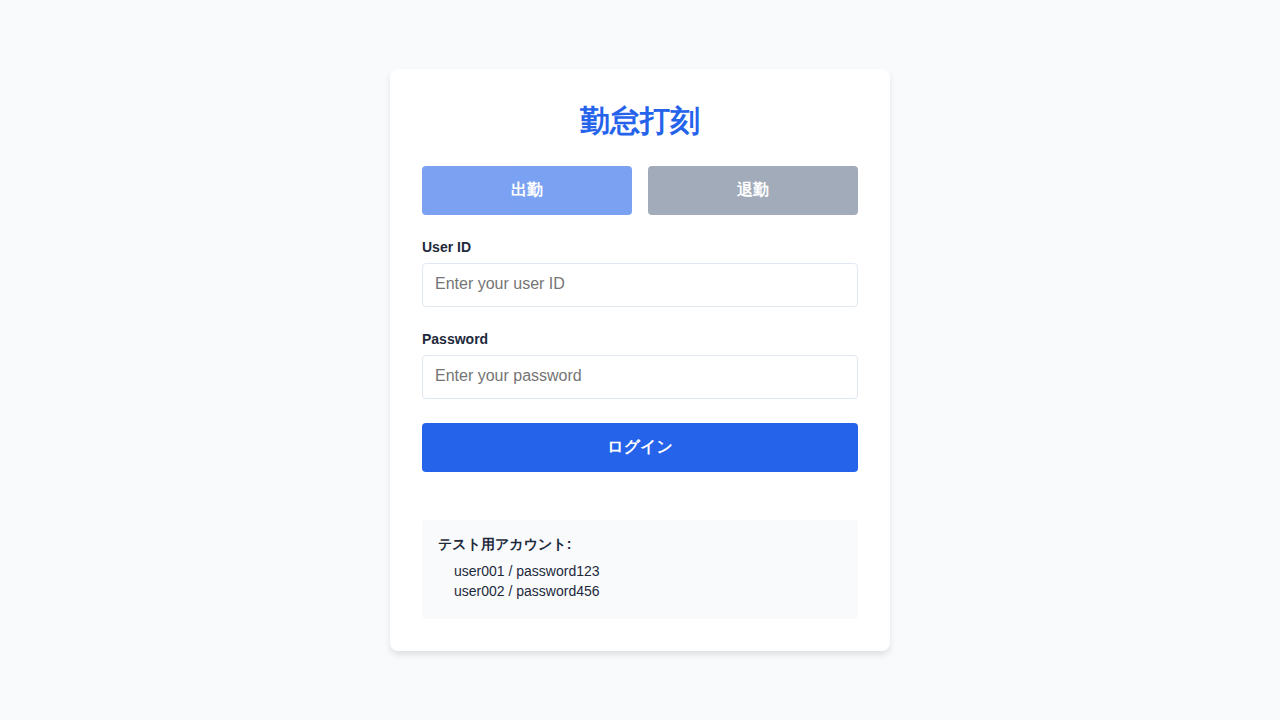
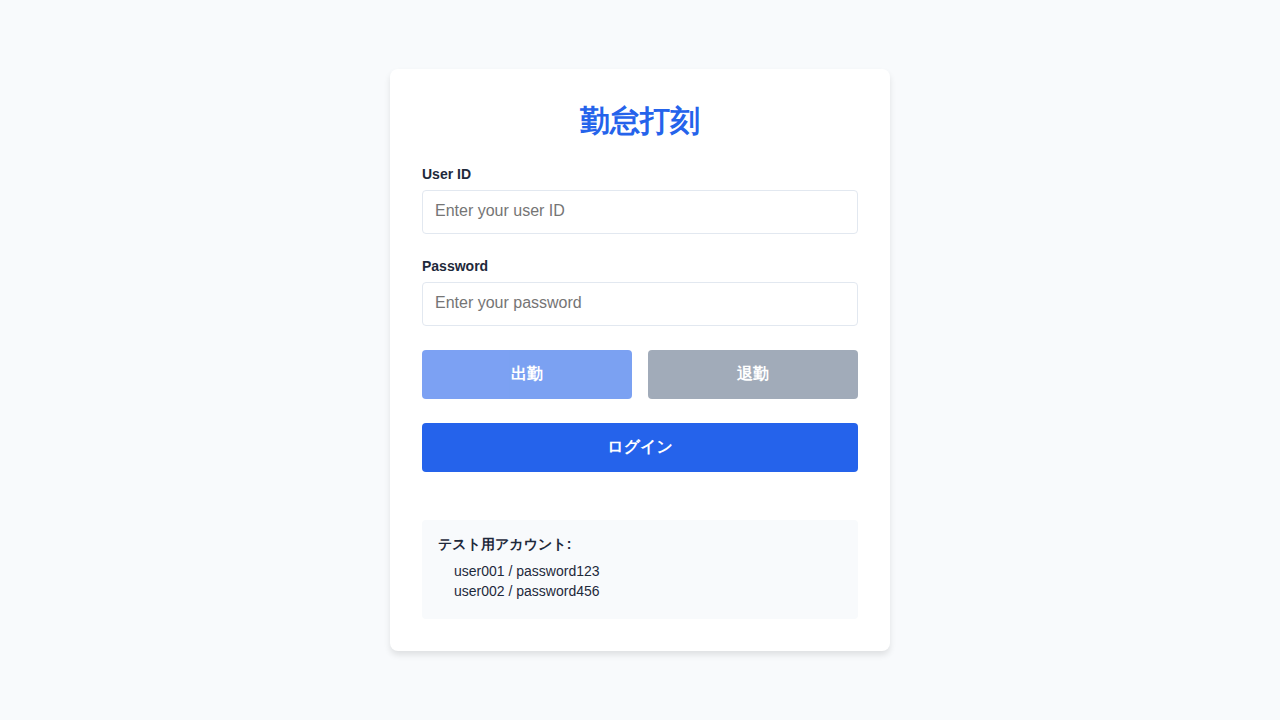
ワークフロー改善とUIレイアウト変更: presetupステップ削除、出勤・退勤ボタン位置変更

Changed region(s): [[0.3125, 0.4583, 0.6875, 0.5806], [0.3125, 0.2139, 0.6875, 0.3056], [0.3125, 0.3361, 0.4688, 0.4278]]

diff --git a/apps/frontend/src/ClockInOutPage/ClockInOutPage.tsx b/apps/frontend/src/ClockInOutPage/ClockInOutPage.tsx
@@ -96,25 +96,7 @@ export function ClockInOutPage() {
             <div className={`message ${message.type}`}>{message.text}</div>
           )}
 
-          {/* 出勤・退勤ボタンは常に表示 */}
-          <div className="button-group">
-            <button
-              className="btn btn-primary"
-              onClick={() => handleClockInOut('clock-in')}
-              disabled={loading || !isAuthenticated}
-            >
-              出勤
-            </button>
-            <button
-              className="btn btn-secondary"
-              onClick={() => handleClockInOut('clock-out')}
-              disabled={loading || !isAuthenticated}
-            >
-              退勤
-            </button>
-          </div>
-
-          {/* 未ログイン時：ログインフォームとログインボタンを表示 */}
+          {/* 未ログイン時：ログインフォーム、出勤・退勤ボタン、ログインボタンを表示 */}
           {!isAuthenticated && (
             <>
               <div className="form-group">
@@ -141,6 +123,24 @@ export function ClockInOutPage() {
                 />
               </div>
 
+              {/* 出勤・退勤ボタン（未ログイン時は無効） */}
+              <div className="button-group">
+                <button
+                  className="btn btn-primary"
+                  onClick={() => handleClockInOut('clock-in')}
+                  disabled={loading || !isAuthenticated}
+                >
+                  出勤
+                </button>
+                <button
+                  className="btn btn-secondary"
+                  onClick={() => handleClockInOut('clock-out')}
+                  disabled={loading || !isAuthenticated}
+                >
+                  退勤
+                </button>
+              </div>
+
               <button
                 className="btn btn-login"
                 onClick={handleLogin}
@@ -162,15 +162,34 @@ export function ClockInOutPage() {
             </>
           )}
 
-          {/* ログイン済み時：ログアウトボタンを表示 */}
+          {/* ログイン済み時：出勤・退勤ボタンとログアウトボタンを表示 */}
           {isAuthenticated && (
-            <button
-              className="btn btn-tertiary"
-              onClick={handleLogout}
-              disabled={loading}
-            >
-              ログアウト
-            </button>
+            <>
+              <div className="button-group">
+                <button
+                  className="btn btn-primary"
+                  onClick={() => handleClockInOut('clock-in')}
+                  disabled={loading}
+                >
+                  出勤
+                </button>
+                <button
+                  className="btn btn-secondary"
+                  onClick={() => handleClockInOut('clock-out')}
+                  disabled={loading}
+                >
+                  退勤
+                </button>
+              </div>
+
+              <button
+                className="btn btn-tertiary"
+                onClick={handleLogout}
+                disabled={loading}
+              >
+                ログアウト
+              </button>
+            </>
           )}
         </div>
 
